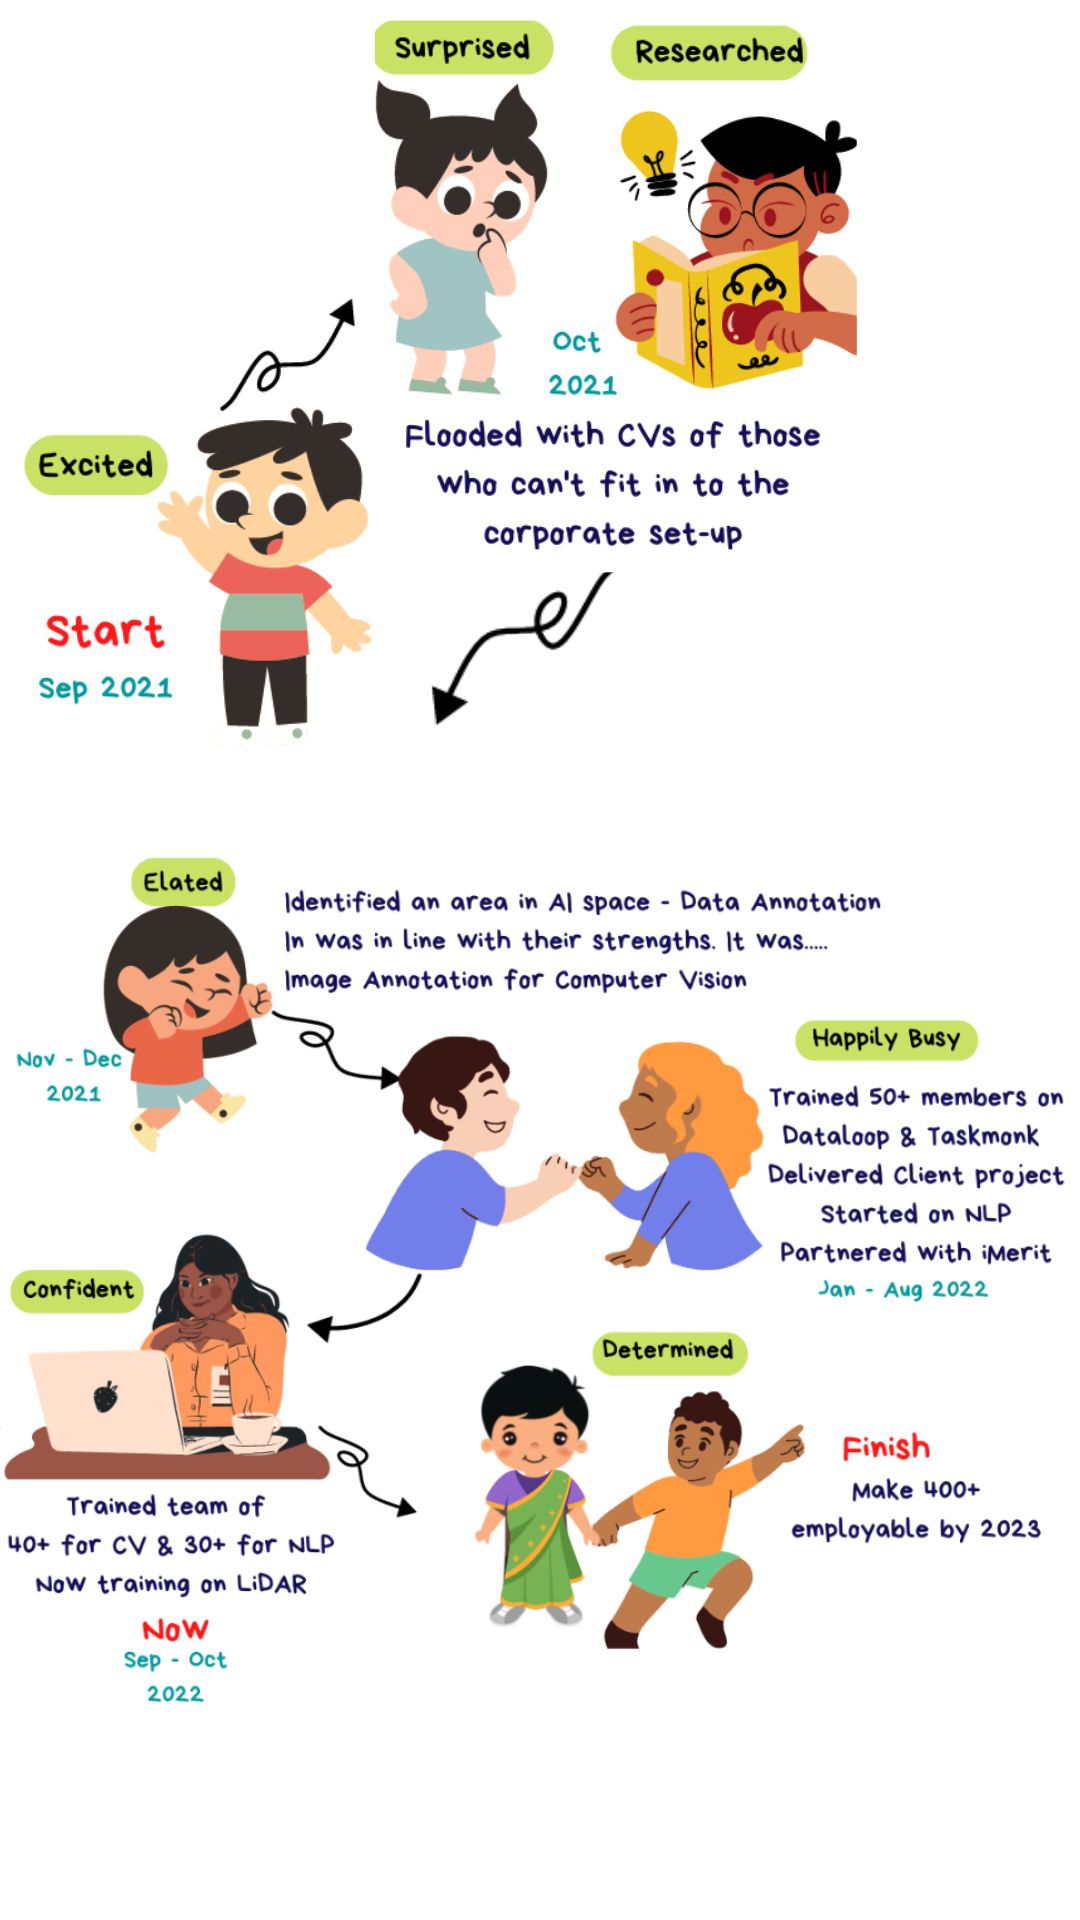
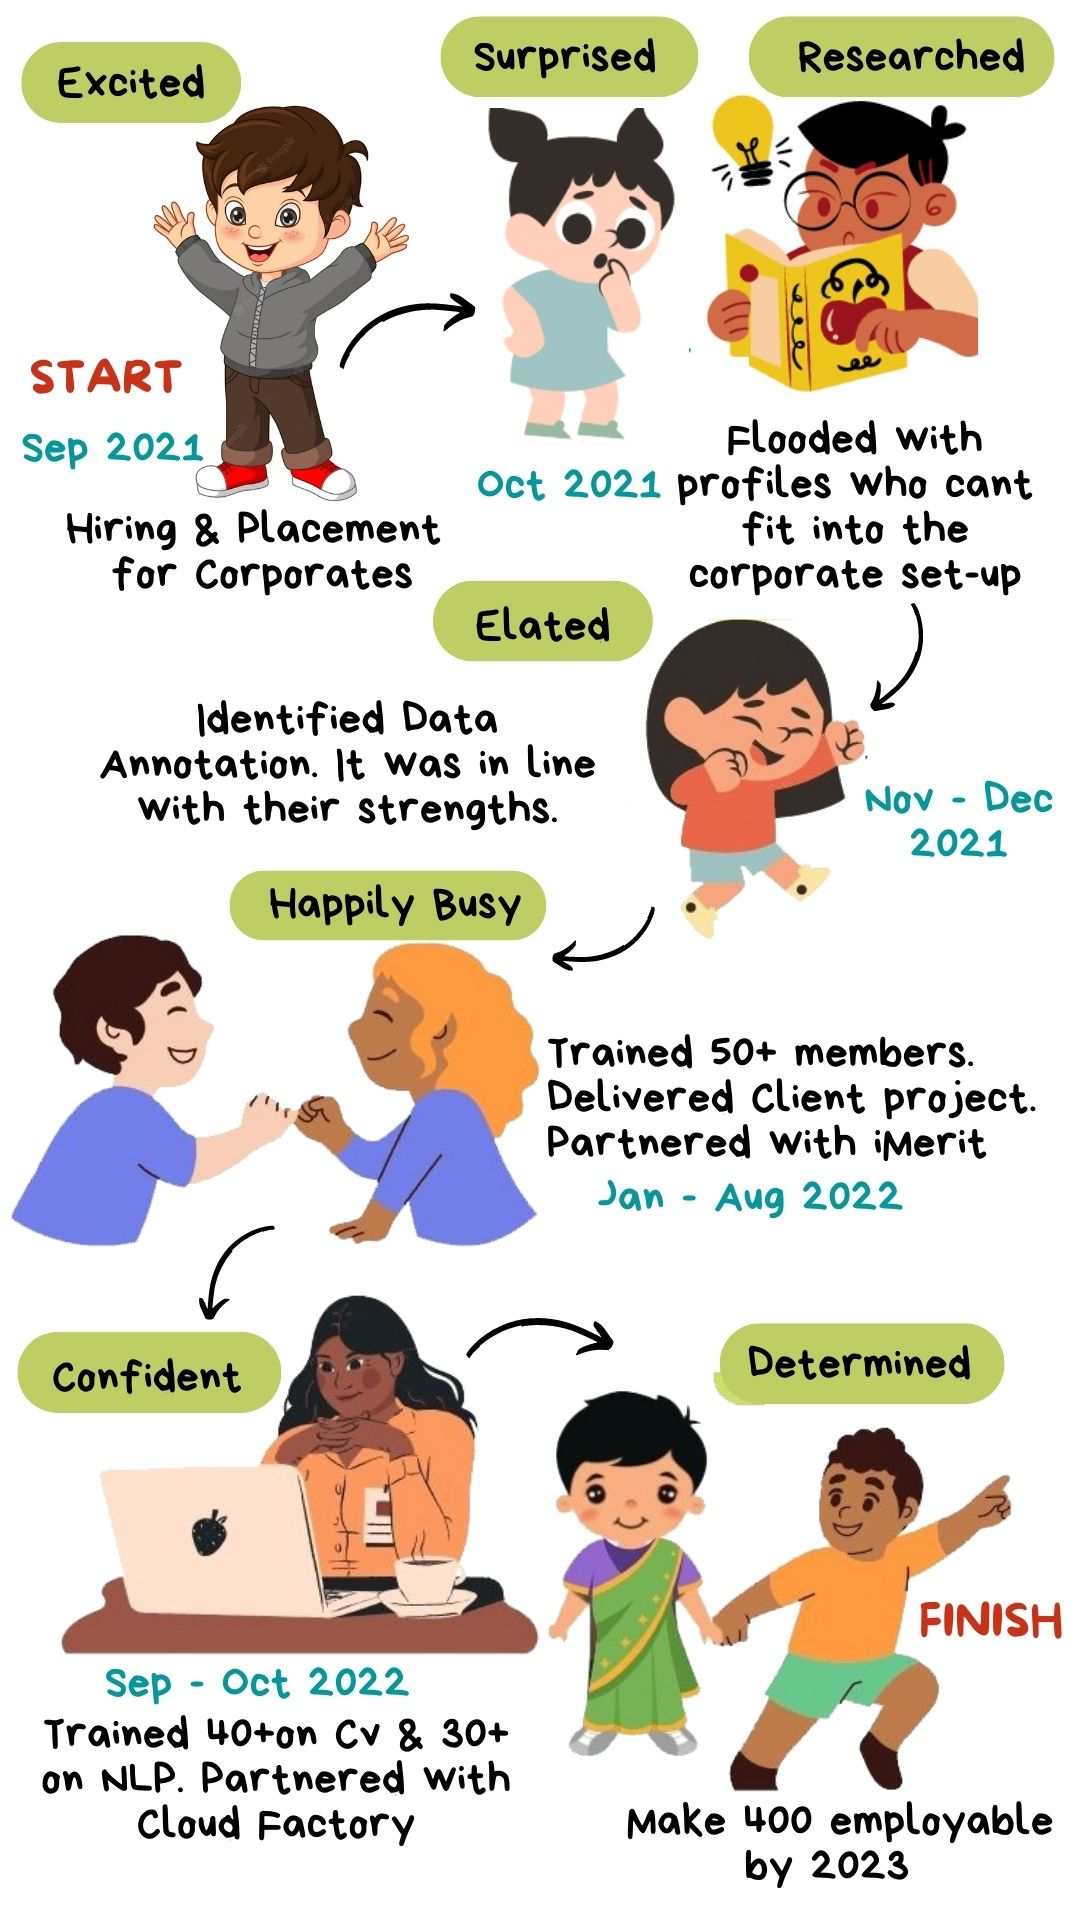
nov13comm

diff --git a/Our Journey.html b/Our Journey.html
@@ -154,15 +154,10 @@ function mmData(o) { mmDataLayer.push(o); }
            <img class="d-none d-md-block" src="assets/img/Our Journey.jpg" style="width: 100%;
                 max-width: 1280px;
                 height: auto;"  alt="">
-                <img class="d-md-none" src="assets/img/Our Journey mob 1.jpg" style="width: 100%;
+                <img class="d-md-none" src="assets/img/Our Journey mob.jpg" style="width: 100%;
                 max-width: 1280px;
                 height: auto;"  alt="">
-                                <img class="d-md-none" src="assets/img/Our Journey mob 2.jpg" style="width: 100%;
-                                max-width: 1280px;
-                                height: auto;"  alt="">
-                                <img class="d-md-none" src="assets/img/Our Journey mob 3.jpg" style="width: 100%;
-                                max-width: 1280px;
-                                height: auto;"  alt="">                
+                                
                 <!-- docs for hiding ref https://getbootstrap.com/docs/5.0/utilities/display/ -->
 				<p>
 					We started attending AI conferences.<b style="color: #00917C;"> We connected to iMerit</b> one of the leading data annotation service providers in India who were as excited as we were to<b style="color: #00917C;">  explore 
